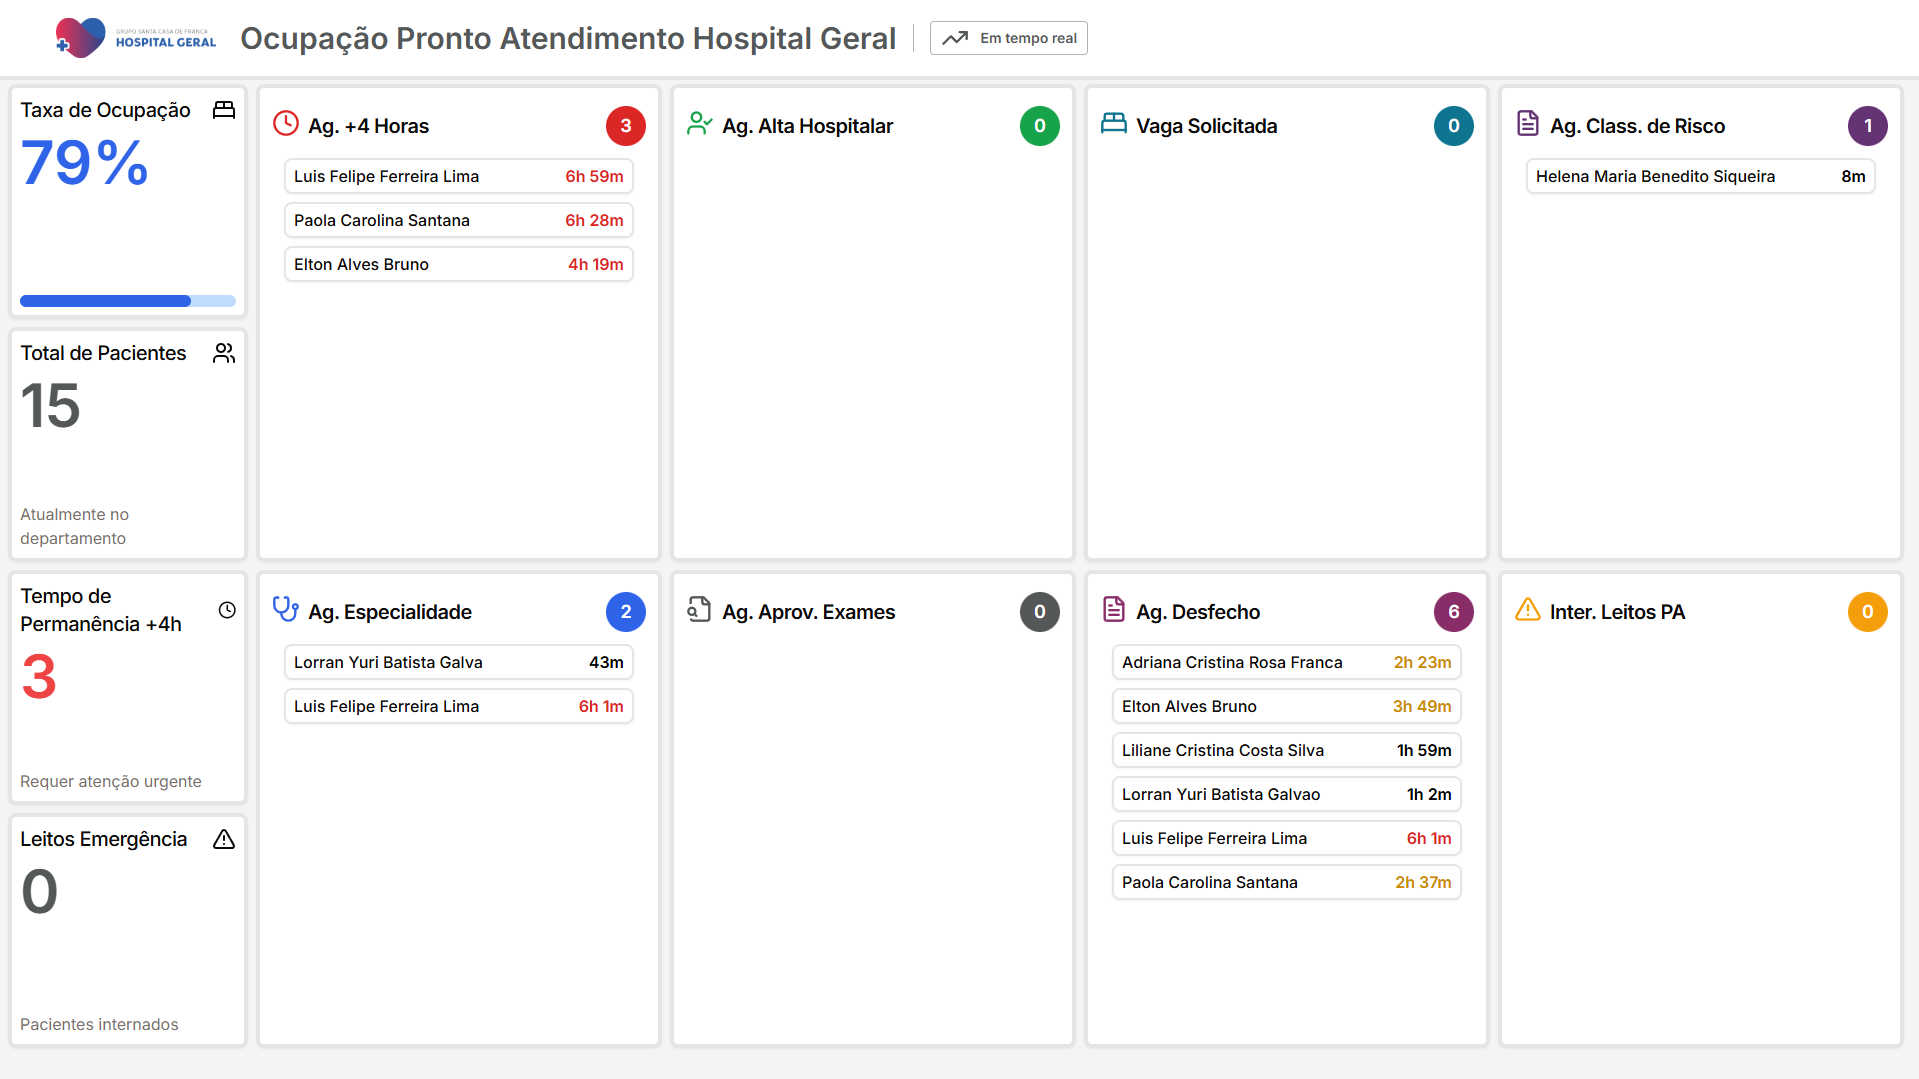
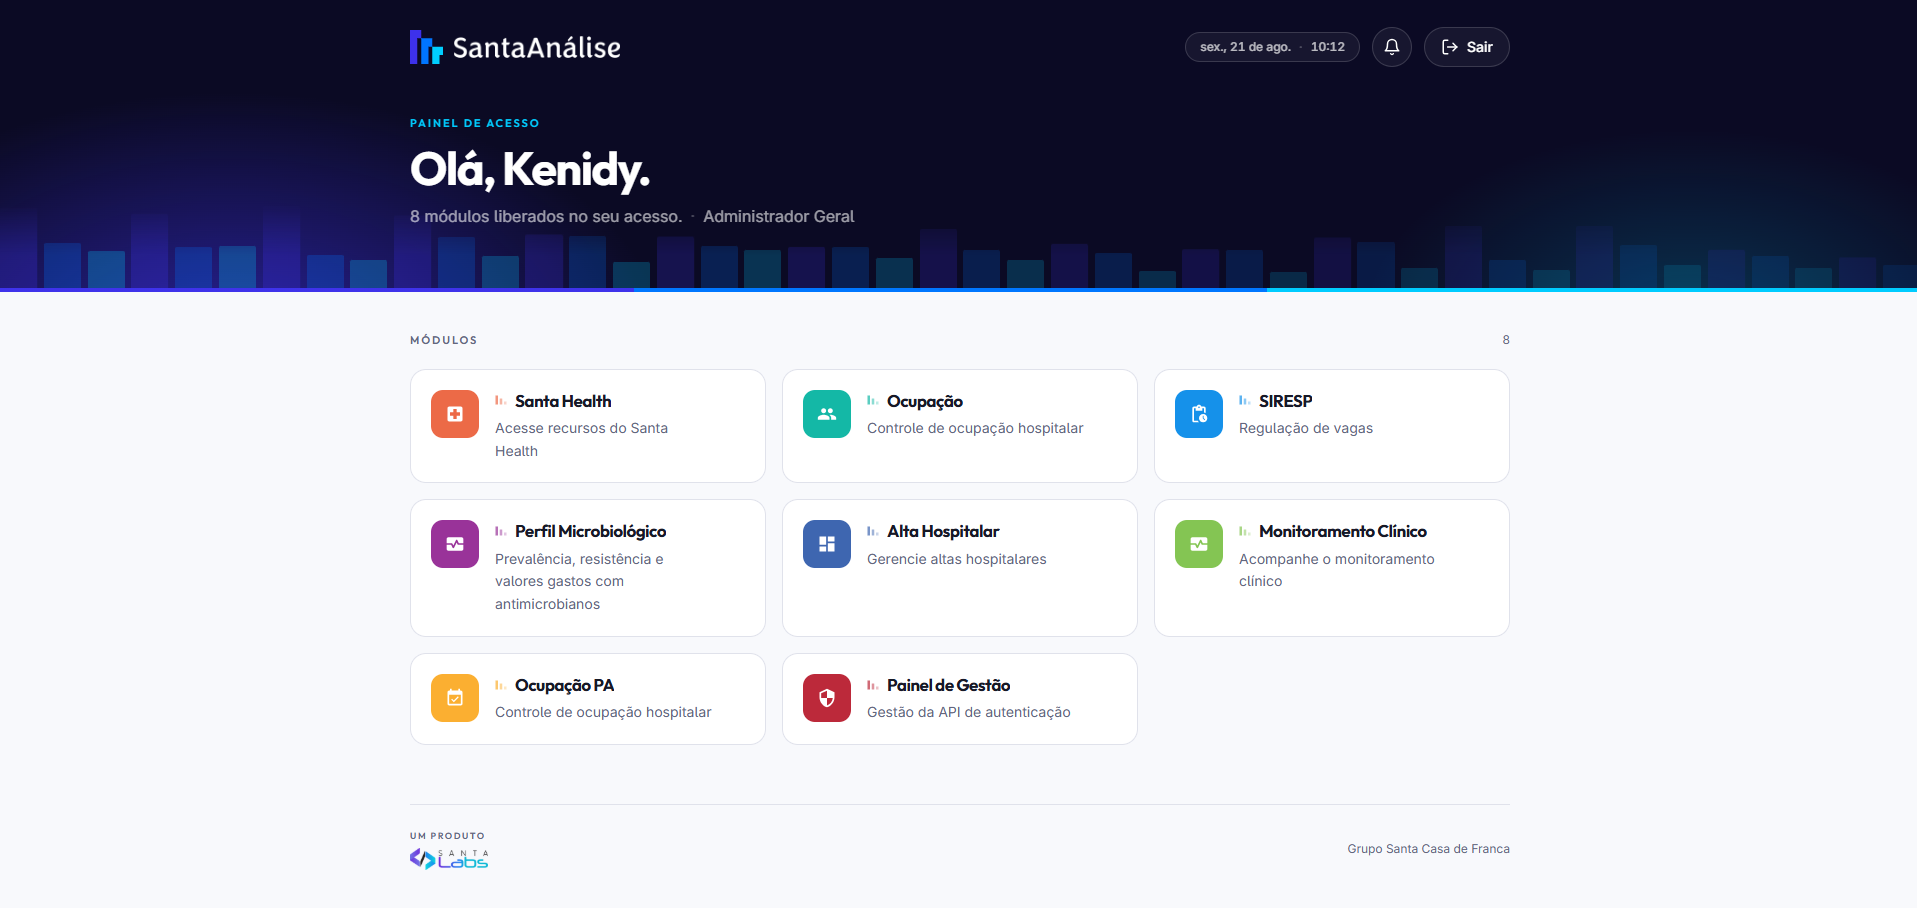
up

diff --git a/client/pages/Index.tsx b/client/pages/Index.tsx
@@ -90,22 +90,21 @@ export default function Index() {
   const projects = [
     {
       id: 1,
-      title: "Conecta Santa Casa",
-      description: "Aplicativo mobile para pacientes oncólogicos realizarem a gestão do tratamento com acompanhamento de agenda, conteúdos e registros de sintomas, além de chat para comunicação com a Equipe Hospitalar.",
-      technologies: ["Expo", "PostgreSQL", "Typescript", "socket.IO"],
-      category: "mobile",
-      image: "app-paciente.png",
-      live: "https://conecta.gruposcf.com.br/",
-      featured: true
+      title: "Landing Page Santa Labs",
+      description: "Site institucional da Santa Labs com scroll suave, animações de rolagem em GSAP e páginas dedicadas para cada produto do portfólio, gerado como site estático.",
+      technologies: ["Next.js", "GSAP", "Lenis", "TypeScript"],
+      category: "web",
+      live: "https://santalabs.com.br/",
+      image: 'santalabs.png',
+      featured: false
     },
     {
       id: 2,
-      title: "Balança Smart",
-      description: "Solução IoT para monitoramento inteligente de peso. A aplicação orienta uma sessão de pesagem com interações com o paciente, monitora o peso registra na balança e registra no EMR Hospitalar Tasy.",
-      technologies: ["HTML", "Javascript", "serialport", "Electron"],
-      category: "desktop",
-      image: "balanca-smart.png",
-      live: 'https://www.linkedin.com/feed/update/urn:li:activity:7348101545009283072/',
+      title: "SantaAnálise",
+      description: "Centro de monitoramento assistencial que centraliza os indicadores clínicos do hospital em painéis de tempo real. Alta hospitalar, ocupação de leitos e exportação de relatórios.",
+      technologies: ["Next.js", "Material UI", "ECharts", "Socket.IO"],
+      category: "web",
+      image: 'cma.png',
       featured: true
     },
     {
@@ -115,46 +114,43 @@ export default function Index() {
       technologies: ["Next.js", "Node.js", "PostgreSQL", "BullMQ", "Meta API"],
       category: "web",
       image: 'chatbot.png',
-      live: "https://santabot.gruposcf.com.br",
+      live: "https://santalabs.com.br/products/santabot/",
       featured: true
     },
     {
       id: 4,
-      title: "Site Portfolio",
-      description: "Um site portfolio responsivo demonstrando princípios de design moderno, animações suaves e pontuações ótimas de performance.",
-      technologies: ["React", "Framer Motion", "Tailwind", "Vite"],
-      category: "web",
-      github: "https://github.com/KenidyCorrea/portfolio",
-      live: "https://portfolio-6m0a.onrender.com/",
-      image: 'portfolio.png',
-      featured: false
+      title: "SantaAcesso",
+      description: "Totem de autoatendimento em modo kiosk para recepção hospitalar: check-in antecipado, confirmação de dados, assinatura digital e emissão de senha e pulseira, com ponte local que lê o Tasy e sincroniza filas com a API.",
+      technologies: ["Electron", "React", "Zustand", "OracleDB", "TypeScript"],
+      category: "desktop",
+      image: 'santaacesso.png',
+      live: "https://santalabs.com.br/products/totem/",
+      featured: true
     },
     {
       id: 5,
-      title: "Dashboard de Análise de Dados",
-      description: "Dashboard interativo para visualização de dados com gráficos, filtros e atualizações em tempo real. Criado para acompanhamento de alta hospitalar e ocupação de leitos.",
-      technologies: ["React", "Tailwind", "NestJS", "Next.js"],
-      category: "web",
-      image: 'cma.png',
+      title: "Balança Smart",
+      description: "Solução IoT para monitoramento inteligente de peso. A aplicação orienta uma sessão de pesagem com interações com o paciente, monitora o peso registra na balança e registra no EMR Hospitalar Tasy.",
+      technologies: ["HTML", "Javascript", "serialport", "Electron"],
+      category: "desktop",
+      image: "balanca-smart.png",
+      live: 'https://www.linkedin.com/feed/update/urn:li:activity:7348101545009283072/',
       featured: true
     },
     {
       id: 6,
-      title: "Convite de Casamento",
-      description: "Convite digital do meu casamento, com dados sobre local e forma de presentear.",
-      technologies: ["Vite", "Tailwind", "TypeScript"],
+      title: "SantaPag",
+      description: "Plataforma de gestão financeira de planos de saúde: sincronização de contratos com o EMR Tasy, cobranças recorrentes, links de pagamento e conciliação via Pix, cartão e boleto, com integração Getnet.",
+      technologies: ["React", "Vite", "Express", "Getnet"],
       category: "web",
-      github: "https://github.com/KenidyCorrea/casamento",
-      live: "https://biaekenidy.com/",
-      image: 'casamento.png',
+      image: "santapag.png",
       featured: true
-    },
+    }
   ];
 
   const categories = [
     { id: "all", name: "Todos os Projetos" },
     { id: "web", name: "Web Apps" },
-    { id: "mobile", name: "Mobile" },
     { id: "desktop", name: "Desktop" }
   ];
 
